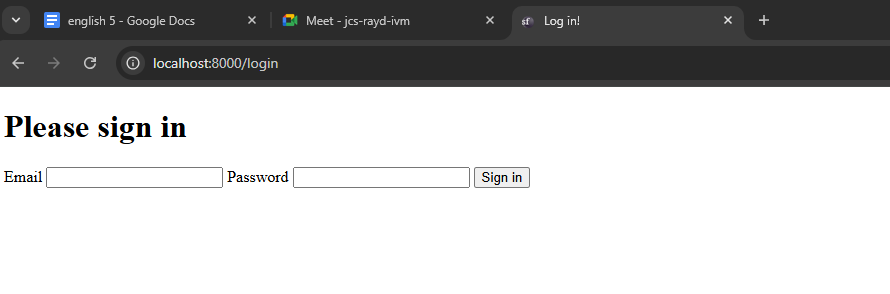
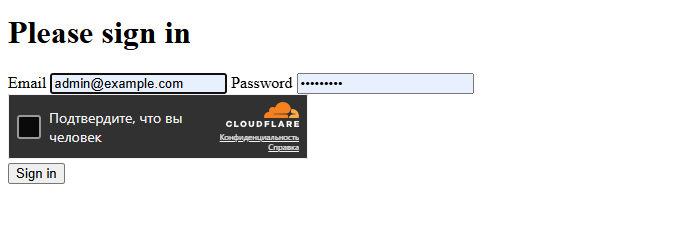
task 3: login in captcha

diff --git a/symfony/src/Security/AdminLoginFormAuthenticator.php b/symfony/src/Security/AdminLoginFormAuthenticator.php
@@ -1,0 +1,85 @@
+<?php
+
+namespace App\Security;
+
+use App\Dto\AdminLoginRequestDto;
+use Symfony\Component\HttpFoundation\RedirectResponse;
+use Symfony\Component\HttpFoundation\Request;
+use Symfony\Component\HttpFoundation\Response;
+use Symfony\Component\Routing\Generator\UrlGeneratorInterface;
+use Symfony\Component\Security\Core\Exception\CustomUserMessageAuthenticationException;
+use Symfony\Component\Security\Core\Authentication\Token\TokenInterface;
+use Symfony\Component\Security\Http\Authenticator\AbstractLoginFormAuthenticator;
+use Symfony\Component\Security\Http\Authenticator\Passport\Badge\CsrfTokenBadge;
+use Symfony\Component\Security\Http\Authenticator\Passport\Badge\UserBadge;
+use Symfony\Component\Security\Http\Authenticator\Passport\Credentials\PasswordCredentials;
+use Symfony\Component\Security\Http\Authenticator\Passport\Passport;
+use Symfony\Component\Security\Http\SecurityRequestAttributes;
+use Symfony\Component\Security\Http\Util\TargetPathTrait;
+use Symfony\Component\Validator\ConstraintViolationListInterface;
+use Symfony\Component\Validator\Validator\ValidatorInterface;
+
+final class AdminLoginFormAuthenticator extends AbstractLoginFormAuthenticator
+{
+    use TargetPathTrait;
+
+    public const LOGIN_ROUTE = 'app_login';
+
+    public function __construct(
+        private readonly UrlGeneratorInterface $urlGenerator,
+        private readonly ValidatorInterface $validator,
+    ) {
+    }
+
+    public function authenticate(Request $request): Passport
+    {
+        $email = trim((string) $request->request->get('_username', ''));
+        $password = (string) $request->request->get('_password', '');
+        $turnstileToken = (string) $request->request->get('cf-turnstile-response', '');
+
+        $payload = new AdminLoginRequestDto(
+            email: $email,
+            password: $password,
+            turnstileToken: $turnstileToken,
+        );
+
+        $violations = $this->validator->validate($payload);
+
+        if (0 !== \count($violations)) {
+            throw new CustomUserMessageAuthenticationException($this->buildValidationMessage($violations));
+        }
+
+        if ($request->hasSession()) {
+            $request->getSession()->set(SecurityRequestAttributes::LAST_USERNAME, $email);
+        }
+
+        return new Passport(
+            new UserBadge($email),
+            new PasswordCredentials($password),
+            [
+                new CsrfTokenBadge('authenticate_form', (string) $request->request->get('_csrf_token', '')),
+            ],
+        );
+    }
+
+    public function onAuthenticationSuccess(Request $request, TokenInterface $token, string $firewallName): ?Response
+    {
+        $targetPath = $this->getTargetPath($request->getSession(), $firewallName);
+
+        if (null !== $targetPath) {
+            return new RedirectResponse($targetPath);
+        }
+
+        return new RedirectResponse($this->urlGenerator->generate('admin'));
+    }
+
+    protected function getLoginUrl(Request $request): string
+    {
+        return $this->urlGenerator->generate(self::LOGIN_ROUTE);
+    }
+
+    private function buildValidationMessage(ConstraintViolationListInterface $violations): string
+    {
+        return $violations[0]?->getMessage() ?? 'Invalid login payload.';
+    }
+}

diff --git a/symfony/src/Dto/AdminLoginRequestDto.php b/symfony/src/Dto/AdminLoginRequestDto.php
@@ -1,0 +1,21 @@
+<?php
+
+namespace App\Dto;
+
+use PixelOpen\CloudflareTurnstileBundle\Validator\CloudflareTurnstile;
+use Symfony\Component\Validator\Constraints as Assert;
+
+final readonly class AdminLoginRequestDto
+{
+    public function __construct(
+        #[Assert\NotBlank(message: 'Email is required.')]
+        #[Assert\Email(message: 'Email must be a valid email address.')]
+        public string $email = '',
+        #[Assert\NotBlank(message: 'Password is required.')]
+        public string $password = '',
+        #[Assert\NotBlank(message: 'Captcha is required.')]
+        #[CloudflareTurnstile]
+        public string $turnstileToken = '',
+    ) {
+    }
+}
